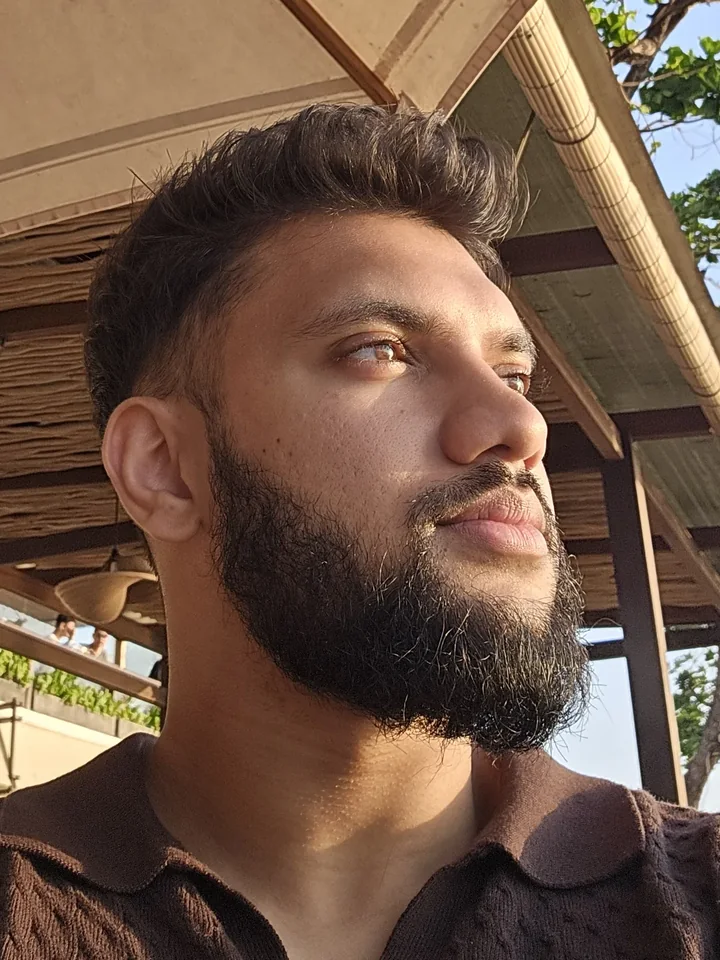
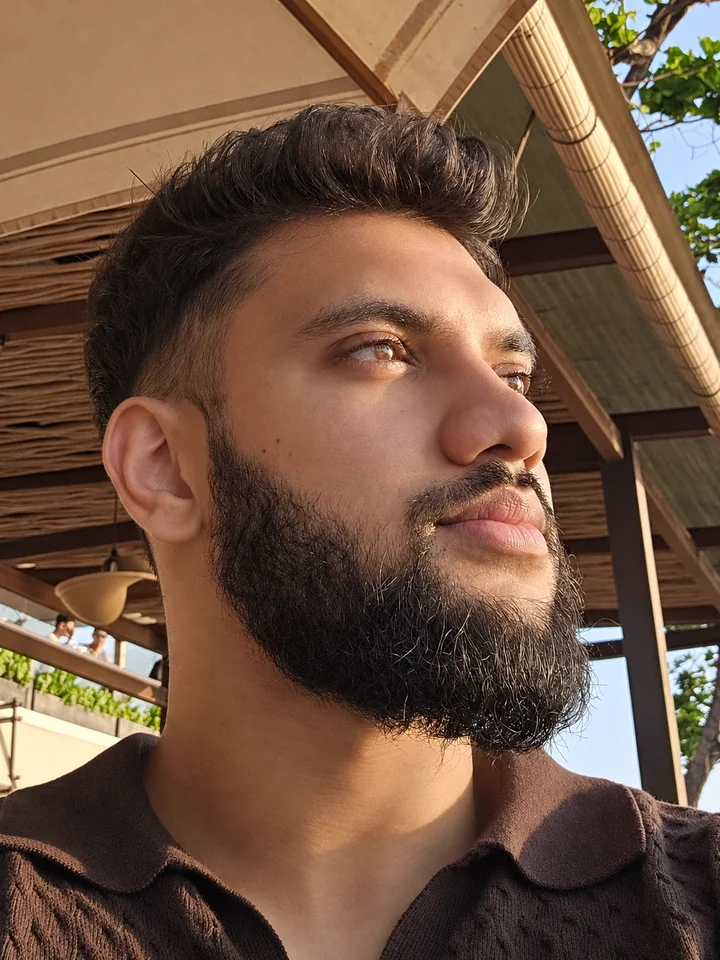
Use the touched-up photo on the first screens and the share images

diff --git a/src/content/site.ts b/src/content/site.ts
@@ -22,10 +22,10 @@ export const person = {
   cv: { label: "Download CV", href: "/cv.pdf" },
   github: "https://github.com/Juber-Ahmed98",
   linkedin: "https://www.linkedin.com/in/mohammed-juber-ahmed/",
-  /** 1200 wide for phones at 3x; the 720 cut is enough beside the sentence on a 1x desktop. */
+  /** 1086 wide (the retouched file's own size) for phones at 3x; the 720 cut is enough beside the sentence on a 1x desktop. */
   photo: {
     src: "/juber.webp",
-    srcset: "/juber-720.webp 720w, /juber.webp 1200w",
+    srcset: "/juber-720.webp 720w, /juber.webp 1086w",
     sizes: "(min-width: 900px) and (min-aspect-ratio: 11/10) 42vw, 100vw",
     alt: "Juber Ahmed, in profile, in evening light",
   },

diff --git a/DESIGN.md b/DESIGN.md
@@ -190,7 +190,7 @@ All in `src/styles/site.css`; the class names are the vocabulary.
 | Home HTML, gzipped, stylesheet included | 8.8 KB | 16 KB + 10 KB CSS |
 | JavaScript | one inline script, about 0.4 KB | 161 KB gz |
 | Requests before the first screen is complete | the document, one font (43 KB), the photo | — |
-| The photo | 293 KB at 1200 wide (phones at 3x); 720-wide cut for 1x desktops | — |
+| The photo | 285 KB at 1086 wide (phones at 3x); 720-wide cut, 120 KB, for 1x desktops | — |
 | Client captures | 56–143 KB each, lazy | 244–372 KB each |
 | The recording | 729 KB, fetched when it first plays | the same |
 | Real-device LCP and CLS | **not yet measured on the owner's phone** | |

diff --git a/CLAUDE.md b/CLAUDE.md
@@ -177,6 +177,6 @@ Nothing below can be written until he supplies it. Never fill a gap with somethi
 - A live demo URL for the e-commerce store, if there is one.
 - Prices or timelines for `/websites`, if he wants them shown.
 - Whether he takes contract work, and whether to say so.
-- A photo facing the camera, if he prefers one; and whether to keep the parasol lettering
-  that was retouched out of the current photo.
+- A photo facing the camera, if he prefers one. (The current photo is his own touched-up
+  version, supplied 2026-11-13; its master is local-only in `design-reference/plans/`.)
 - A Bengali recording of the keyboard (the current one is English into Indonesian).
